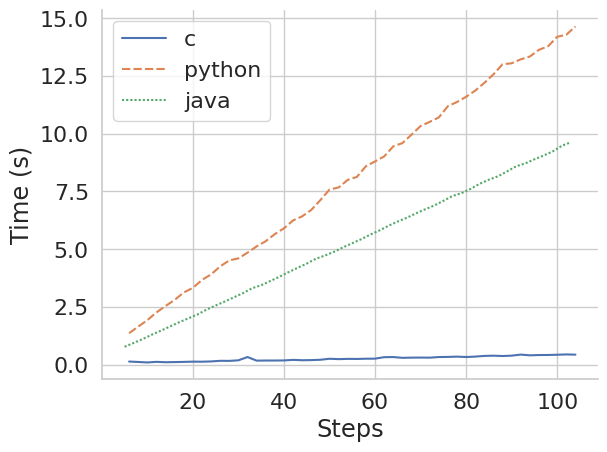
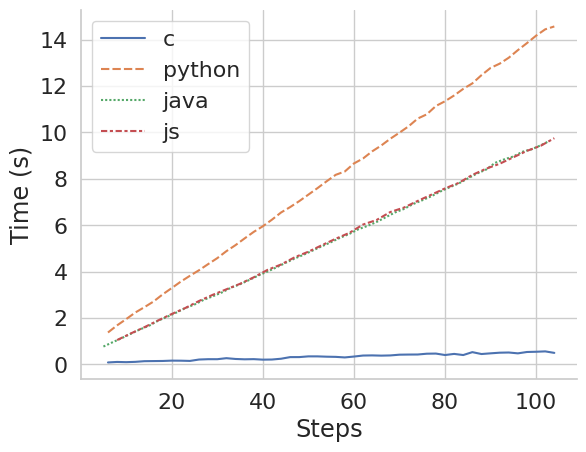
Add JS to paper

diff --git a/paper/paper.tex b/paper/paper.tex
@@ -70,6 +70,16 @@
 \definecolor{codegray}{gray}{0.9}
 \newcommand{\code}[1]{\colorbox{codegray}{\texttt{#1}}}
 
+\definecolor{javared}{rgb}{0.6,0,0} % for strings
+\definecolor{javagreen}{rgb}{0.25,0.5,0.35} % comments
+\definecolor{javapurple}{rgb}{0.5,0,0.35} % keywords
+\definecolor{javadocblue}{rgb}{0.25,0.35,0.75} % javadoc
+ 
+\lstset{language=Java,
+keywordstyle=\color{javapurple},
+stringstyle=\color{javared},
+commentstyle=\color{javagreen}}
+
 \begin{document}
 
 \title{Language-Parametric Techniques for Live Probes}
@@ -569,25 +579,31 @@ The results are shown in table \ref{table:average-time}.
 \end{comment}
 \begin{figure}[htbp]
   \centering
-  \begin{subfigure}[b]{0.3\textwidth}
+  \begin{subfigure}[b]{0.45\textwidth}
       \centering
       \includegraphics[width=\textwidth]{img/scenario_bs_c.png}
       \caption{\centering C}
       \label{subfig:scenario-bs-c}
   \end{subfigure}
   \hfill
-  \begin{subfigure}[b]{0.3\textwidth}
+  \begin{subfigure}[b]{0.45\textwidth}
       \centering
       \includegraphics[width=\textwidth]{img/scenario_bs_java.png}
       \caption{\centering Java}
       \label{subfig:scenario-bs-java}
   \end{subfigure}
-  \hfill
-  \begin{subfigure}[b]{0.3\textwidth}
+  \begin{subfigure}[b]{0.45\textwidth}
     \centering
     \includegraphics[width=\textwidth]{img/scenario_bs_python.png}
     \caption{\centering Python}
     \label{subfig:scenario-bs-py}
+  \end{subfigure}
+  \hfill
+  \begin{subfigure}[b]{0.45\textwidth}
+    \centering
+    \includegraphics[width=\textwidth]{img/scenario_bs_javascript.png}
+    \caption{\centering Javascript}
+    \label{subfig:scenario-bs-js}
   \end{subfigure}
 
   \caption{Execution time and Stackrecording size for binary search scenario.}
